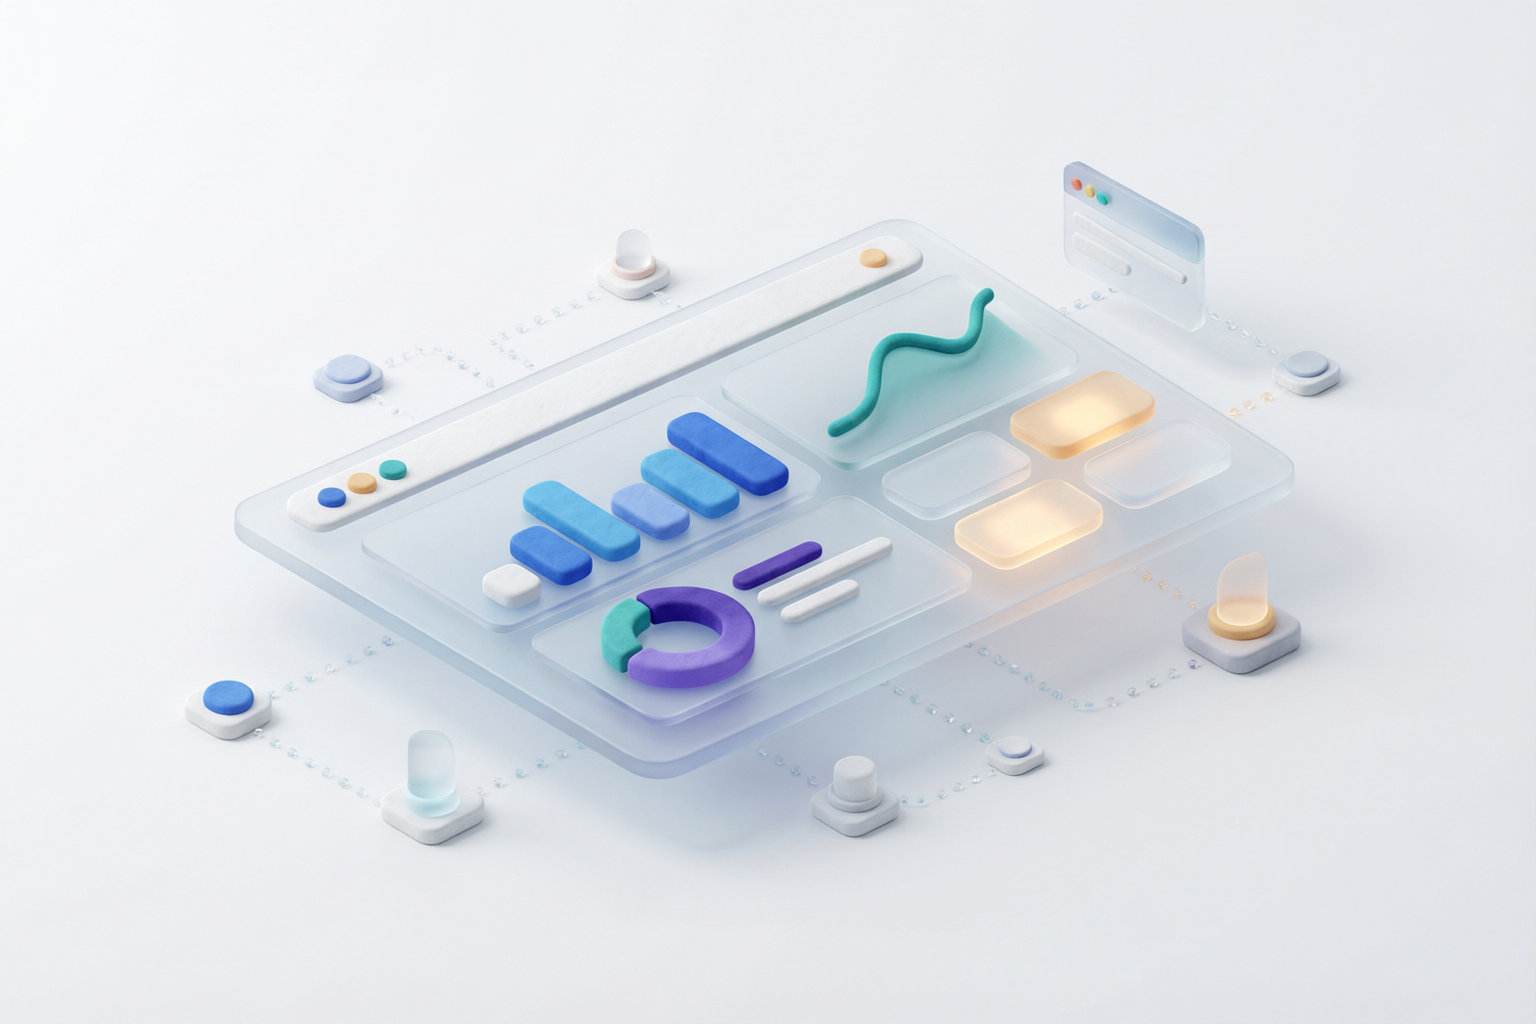
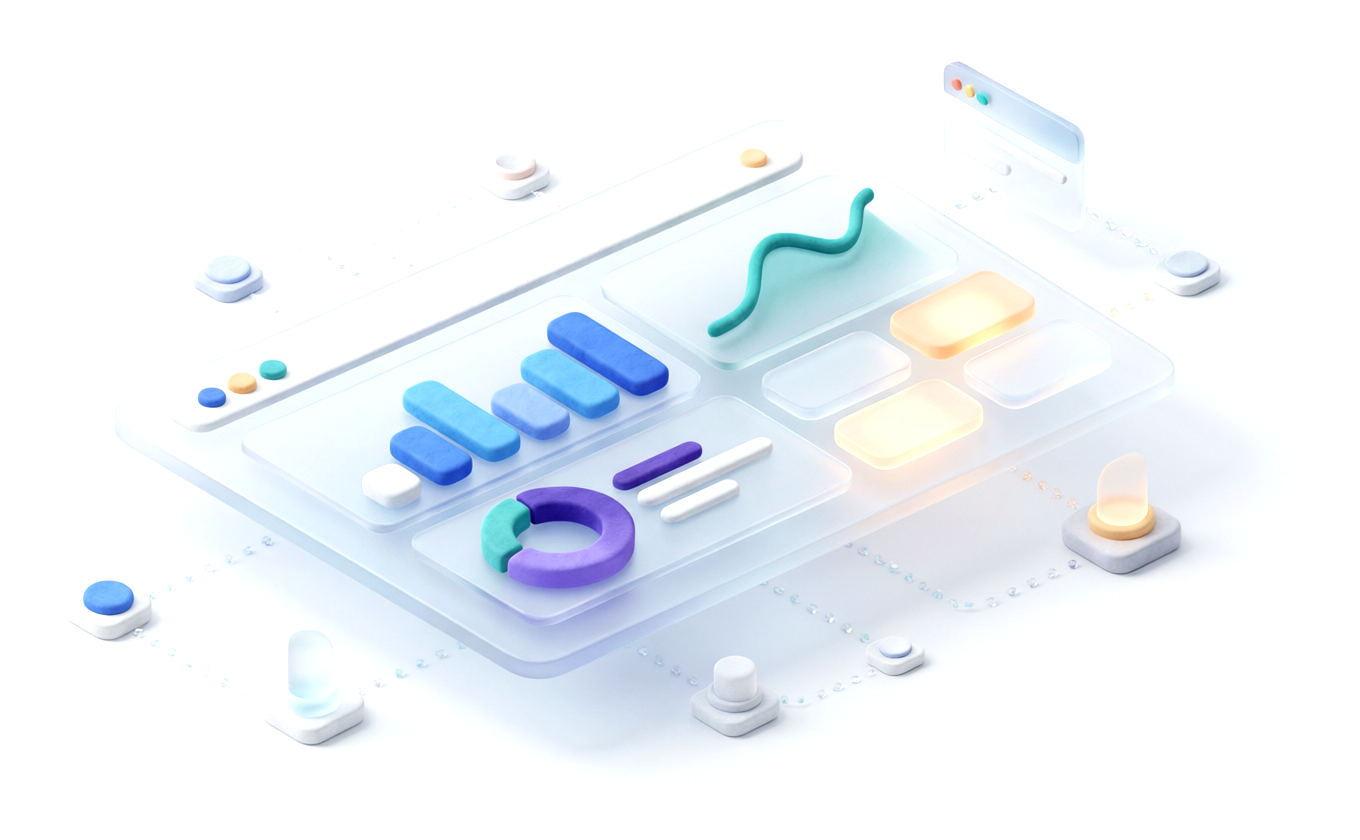
docs(training-ppt): 修复插图显示不完整与灰底色块——去留白完整显示+背景提白无缝融合（第6/18/32页）

diff --git a/docs/training-ppt/index.html b/docs/training-ppt/index.html
@@ -136,7 +136,7 @@
 <section class="slide" data-mod="1">
   <div class="kicker">MODULE 01 · 快速上手</div>
   <h2>三步问出第一张图</h2>
-  <div class="split" style="margin-top:16px;">
+  <div class="split" style="margin-top:16px;flex:none;">
     <div class="steps" data-anim="fade-up">
       <div class="step"><div class="body"><h3>登录系统</h3><p>浏览器打开系统地址，输入账号密码。首次登录按提示完成强制改密。</p></div></div>
       <div class="step"><div class="body"><h3>选择数据源</h3><p>页面顶部切换器选择要分析的数据源（如「企业综合运营数仓」），问数、对话历史均按数据源隔离。</p></div></div>
@@ -153,12 +153,14 @@
           <li>· 结果满意就点 👍 —— 自动沉淀为样例，越用越准</li>
         </ul>
       </div>
-      <div class="card flat" style="margin-top:16px;" data-anim="slide-left">
-        <h3 style="font-size:16px;margin-bottom:8px;">⏱ 语义缓存</h3>
-        <p style="font-size:13.5px;color:var(--text-2);line-height:1.6;">相同或等价的问题（归一化后）10 分钟内命中缓存，秒级返回，审计状态标记为 CACHE。</p>
-      </div>
-      <img src="assets/images/step-up.png" alt="" data-anim="fade-up" style="width:100%;height:132px;object-fit:cover;object-position:center 60%;border-radius:var(--radius);margin-top:14px;mix-blend-mode:multiply;">
     </div>
+  </div>
+  <div style="display:grid;grid-template-columns:1fr max-content;gap:26px;margin-top:18px;align-items:center;">
+    <div class="card flat" data-anim="fade-up">
+      <h3 style="font-size:16px;margin-bottom:8px;">⏱ 语义缓存</h3>
+      <p style="font-size:13.5px;color:var(--text-2);line-height:1.6;">相同或等价的问题（归一化后）10 分钟内命中缓存，秒级返回，审计状态标记为 CACHE。</p>
+    </div>
+    <img src="assets/images/step-up.png" alt="" data-anim="zoom-in" style="display:block;height:200px;width:auto;border-radius:var(--radius);mix-blend-mode:multiply;">
   </div>
   <div class="notes">现在动手。第一步登录，输入账号密码，新账号会被要求先改密码。第二步，看页面顶部的数据源切换器，选你要分析的那个库——这一点很重要，因为问数的表、历史对话、推荐问题都是跟着数据源走的，选错源问出来的就不是你要的数。第三步，在输入框用中文把需求说清楚，回车提交。屏幕上会出现流式的处理进度，最后给你 SQL、数据表、图表和一段解读。右边是提问技巧：说清维度和指标，比如「按区域统计本季度销售金额」就比「看看销售」好得多；多用业务口径里的词；简单问题直接问，复杂清洗类的开深度分析；如果你们暂时没有数据库，让管理员在数据源页上传 Excel 或 CSV 文件，导入后马上就能问；对结果满意记得点赞，系统会把这条问答自动沉淀进样例库，下次同类问题直接命中。另外重复提问十秒内必回——语义缓存十分钟有效。</div>
 </section>
@@ -453,7 +455,7 @@
         <div class="step"><div class="body"><h3>全角色可见</h3><p>管理员、分析师、只读用户都能查看——管理层无需问数也能随时掌握核心指标</p></div></div>
         <div class="step"><div class="body"><h3>大屏与巡检</h3><p>适合投放到值班大屏与晨会屏幕，配合浏览器全屏模式使用</p></div></div>
       </div>
-      <img src="assets/images/dashboard-banner.png" alt="" data-anim="fade-up" style="width:100%;height:150px;object-fit:cover;object-position:center 55%;border-radius:var(--radius);margin-top:14px;mix-blend-mode:multiply;">
+      <img src="assets/images/dashboard-banner.png" alt="" data-anim="zoom-in" style="display:block;height:205px;width:auto;margin:16px auto 0;border-radius:var(--radius);mix-blend-mode:multiply;">
     </div>
     <div>
       <div class="card" data-anim="slide-left">
@@ -873,7 +875,7 @@
   </div>
   <div class="card tinted" style="margin-top:18px;display:flex;align-items:center;gap:22px;" data-anim="fade-up">
     <p style="font-size:15px;color:var(--accent-2);line-height:1.6;flex:1;"><b>今天就到这里：</b>登录 → 选源 → 提问，三步已经开始；每一次点赞、每一次失败被修复，都在让系统更懂你的业务。<b>现在进入答疑环节 ——</b></p>
-    <img src="assets/images/finale-banner.png" alt="" style="width:260px;height:92px;object-fit:cover;object-position:center 48%;border-radius:12px;flex:none;mix-blend-mode:multiply;">
+    <img src="assets/images/finale-banner.png" alt="" style="display:block;height:172px;width:auto;border-radius:12px;flex:none;mix-blend-mode:multiply;">
   </div>
   <div class="notes">最后收个尾，四个高频问题。第一，总被要求澄清？这是系统在保护你，别嫌烦——用业务术语、说清维度指标，反复出现的词让管理员进知识库、登记成语义指标或者写成铁律，下次就不问了。第二，数字对不上？按四步排查：数据源、SQL 口径、行级权限、结果标记，九成问题出在前两步。第三，忘记密码或者只读用户想问数，都找管理员，一个重置一个升角色。第四，结果能不能直接引用？重要场合记住三件套：计划模式审步骤、SQL 预览核口径、确认真实执行标记。培训的内容就这么多。回想一下今天的主线：登录、选源、提问，三步就能开始；专家角色让解读更内行，灵活查询和报告模式补齐了固定报表和深度报告；铁律和对抗训练让系统既守红线、又从失败中进化。而每一次点赞、每一次失败被修复，都在训练这个系统更懂你们的业务。谢谢大家的时间，现在进入答疑环节，任何问题都欢迎提。</div>
 </section>
